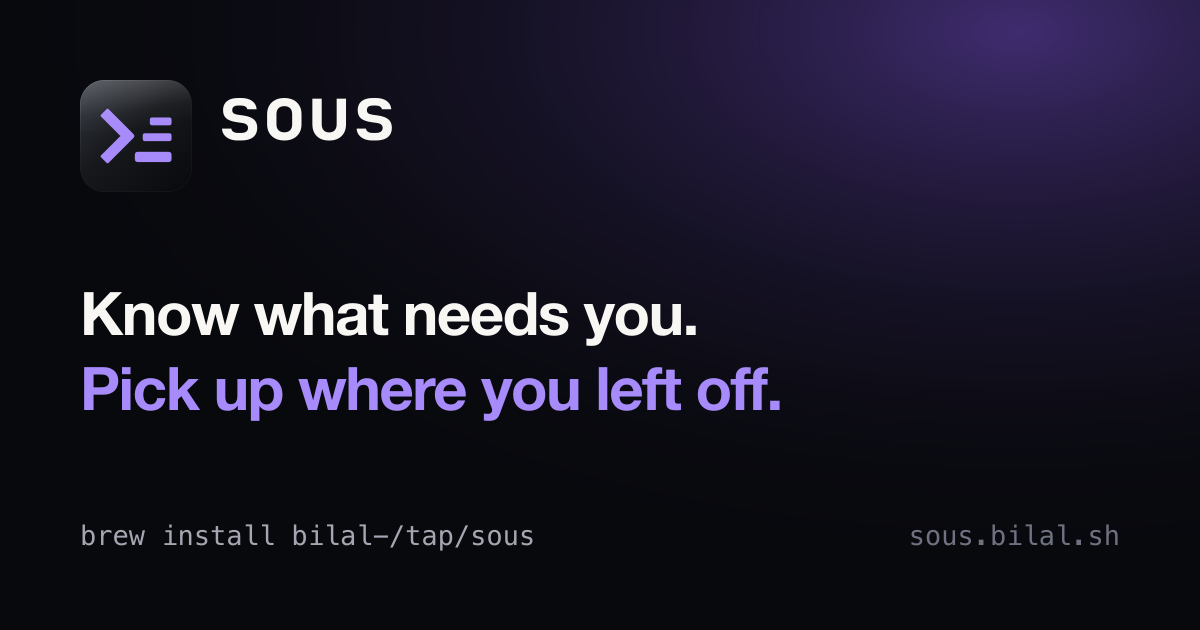
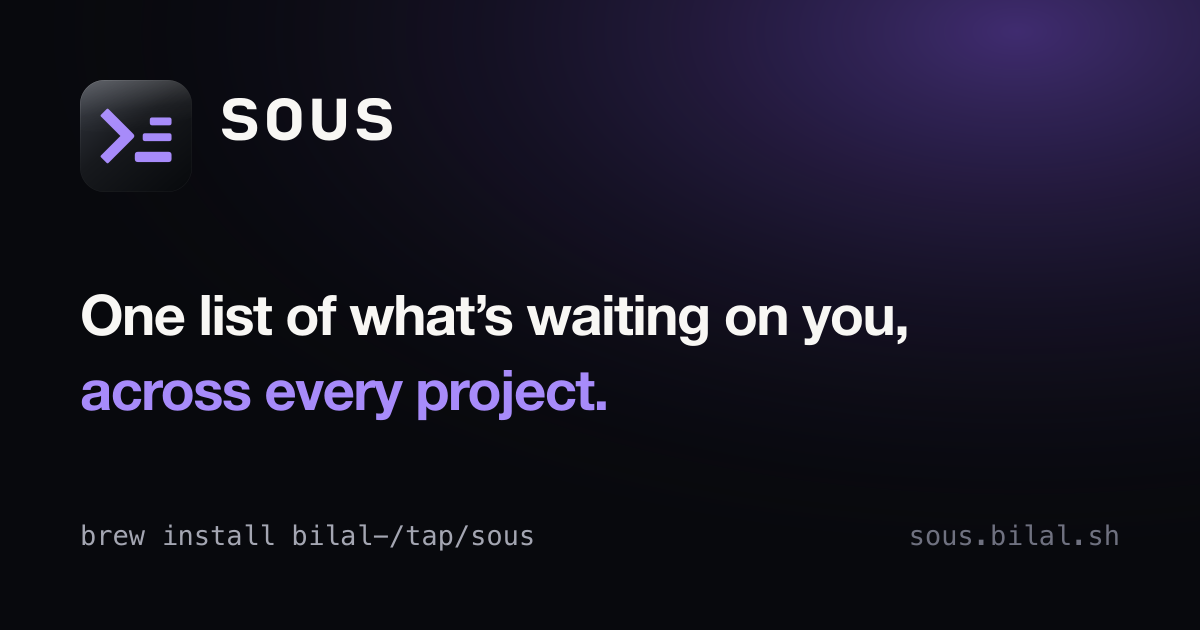
One pitch everywhere: the board header in the README, and the card
The README's board now starts with the header line a terminal prints,
drawn from the same function the CLI uses, and the brand kit's social
card uses sous's one line description instead of an older tagline, so the
README, the site and link previews say the same thing.

Changed region(s): [[0.0617, 0.4524, 0.7708, 0.5429], [0.0617, 0.573, 0.6475, 0.6635]]

diff --git a/internal/board/docs_test.go b/internal/board/docs_test.go
@@ -59,6 +59,7 @@ func TestReadmeBoardIsWhatSousPrints(t *testing.T) {
 		Checked: 26, RenderedAt: docNow,
 	}
 	var b bytes.Buffer
+	b.WriteString(Header("~/.local/bin/sous") + "\n")
 	Render(&b, d)
 	if !strings.Contains(readDoc(t, "README.md"), "```\n"+b.String()+"```\n") {
 		t.Errorf("README.md's board is not what sous prints. Put this in its code block:\n%s", b.String())
@@ -73,6 +74,7 @@ func TestGuideRunExamplesAreWhatSousPrints(t *testing.T) {
 	}
 
 	var b bytes.Buffer
+	b.WriteString(Header("~/.local/bin/sous") + "\n")
 	Render(&b, &Data{
 		Projects: []project.Project{{Path: "/ws/acme/billing"}},
 		Threads:  []thread.View{run(thread.RunRunning, "")},

diff --git a/internal/board/board.go b/internal/board/board.go
@@ -148,6 +148,12 @@ func (r Row) upstreamNote() string {
 // Render lays out the classified board. The headline is what the eye reads:
 // it must not say zero when an obligation source failed or nothing was
 // checked.
+// Header is the line sous prints above the board in a terminal: which sous
+// this is (exe, with ~ for home) and what it does.
+func Header(exe string) string {
+	return "sous · " + exe + " · what is waiting on you across every project"
+}
+
 func Render(w io.Writer, d *Data) { RenderSaved(w, d, d.RenderedAt) }
 
 // RenderSaved draws a saved board as seen at now, so a board from another

diff --git a/internal/cli/board.go b/internal/cli/board.go
@@ -55,7 +55,7 @@ func (e *Env) unconfigured() bool { return e.cfgErr == nil && len(e.Cfg.Roots) =
 
 func cmdBoard(e *Env, roots []string) int {
 	if !e.JSON {
-		fmt.Fprintf(e.Stdout, "sous · %s · what is waiting on you across every project\n", config.Tilde(e.UserHome, e.Exe))
+		fmt.Fprintln(e.Stdout, board.Header(config.Tilde(e.UserHome, e.Exe)))
 	}
 	if len(roots) == 0 && e.unconfigured() {
 		if e.JSON {

diff --git a/CHANGELOG.md b/CHANGELOG.md
@@ -14,6 +14,10 @@ upgraded, never broken.
   rows, unfinished work oldest first, runs under in progress and ready to
   review, and no branch on a ready row. Tests draw these examples with the
   real renderer, so they fail when the docs drift.
+- The README's sample board starts with the line a terminal shows above
+  it, which names the sous on your PATH.
+- The social card in the brand kit uses sous's one line description, as
+  the README does.
 - The README names the run groups at the top of the board, and the command
   guide says "branches with no upstream" rather than "never pushed", which
   sous cannot know.

diff --git a/brand/README.md b/brand/README.md
@@ -1,7 +1,7 @@
 # sous brand kit
 
 The ticket-rail prompt: shellbell's `>_` with two tickets lined up onto the
-cursor. Know what needs you. Pick up where you left off.
+cursor. One list of what's waiting on you, across every project.
 
 <picture><source media="(prefers-color-scheme: dark)" srcset="svg/horizontal-on-dark.svg"><img src="svg/horizontal-on-light.svg" alt="sous" width="220"></picture>
 

diff --git a/docs/guide.md b/docs/guide.md
@@ -179,6 +179,7 @@ Your agent runs `sous go billing --run -` with a full brief. Another agent
 starts on it in the background, in its own git worktree, so its edits stay
 apart from your checkout. The board shows it at the top, under in progress:
 
+    sous · ~/.local/bin/sous · what is waiting on you across every project
     sous · 1 running
 
       in progress

diff --git a/README.md b/README.md
@@ -24,6 +24,7 @@ terminal or start an agent session (Claude Code, Codex, Antigravity or
 opencode), so it still works on the days you forget it exists.
 
 ```
+sous · ~/.local/bin/sous · what is waiting on you across every project
 sous · 2 on you · 1 on others · 2 unfinished
 
   on you
